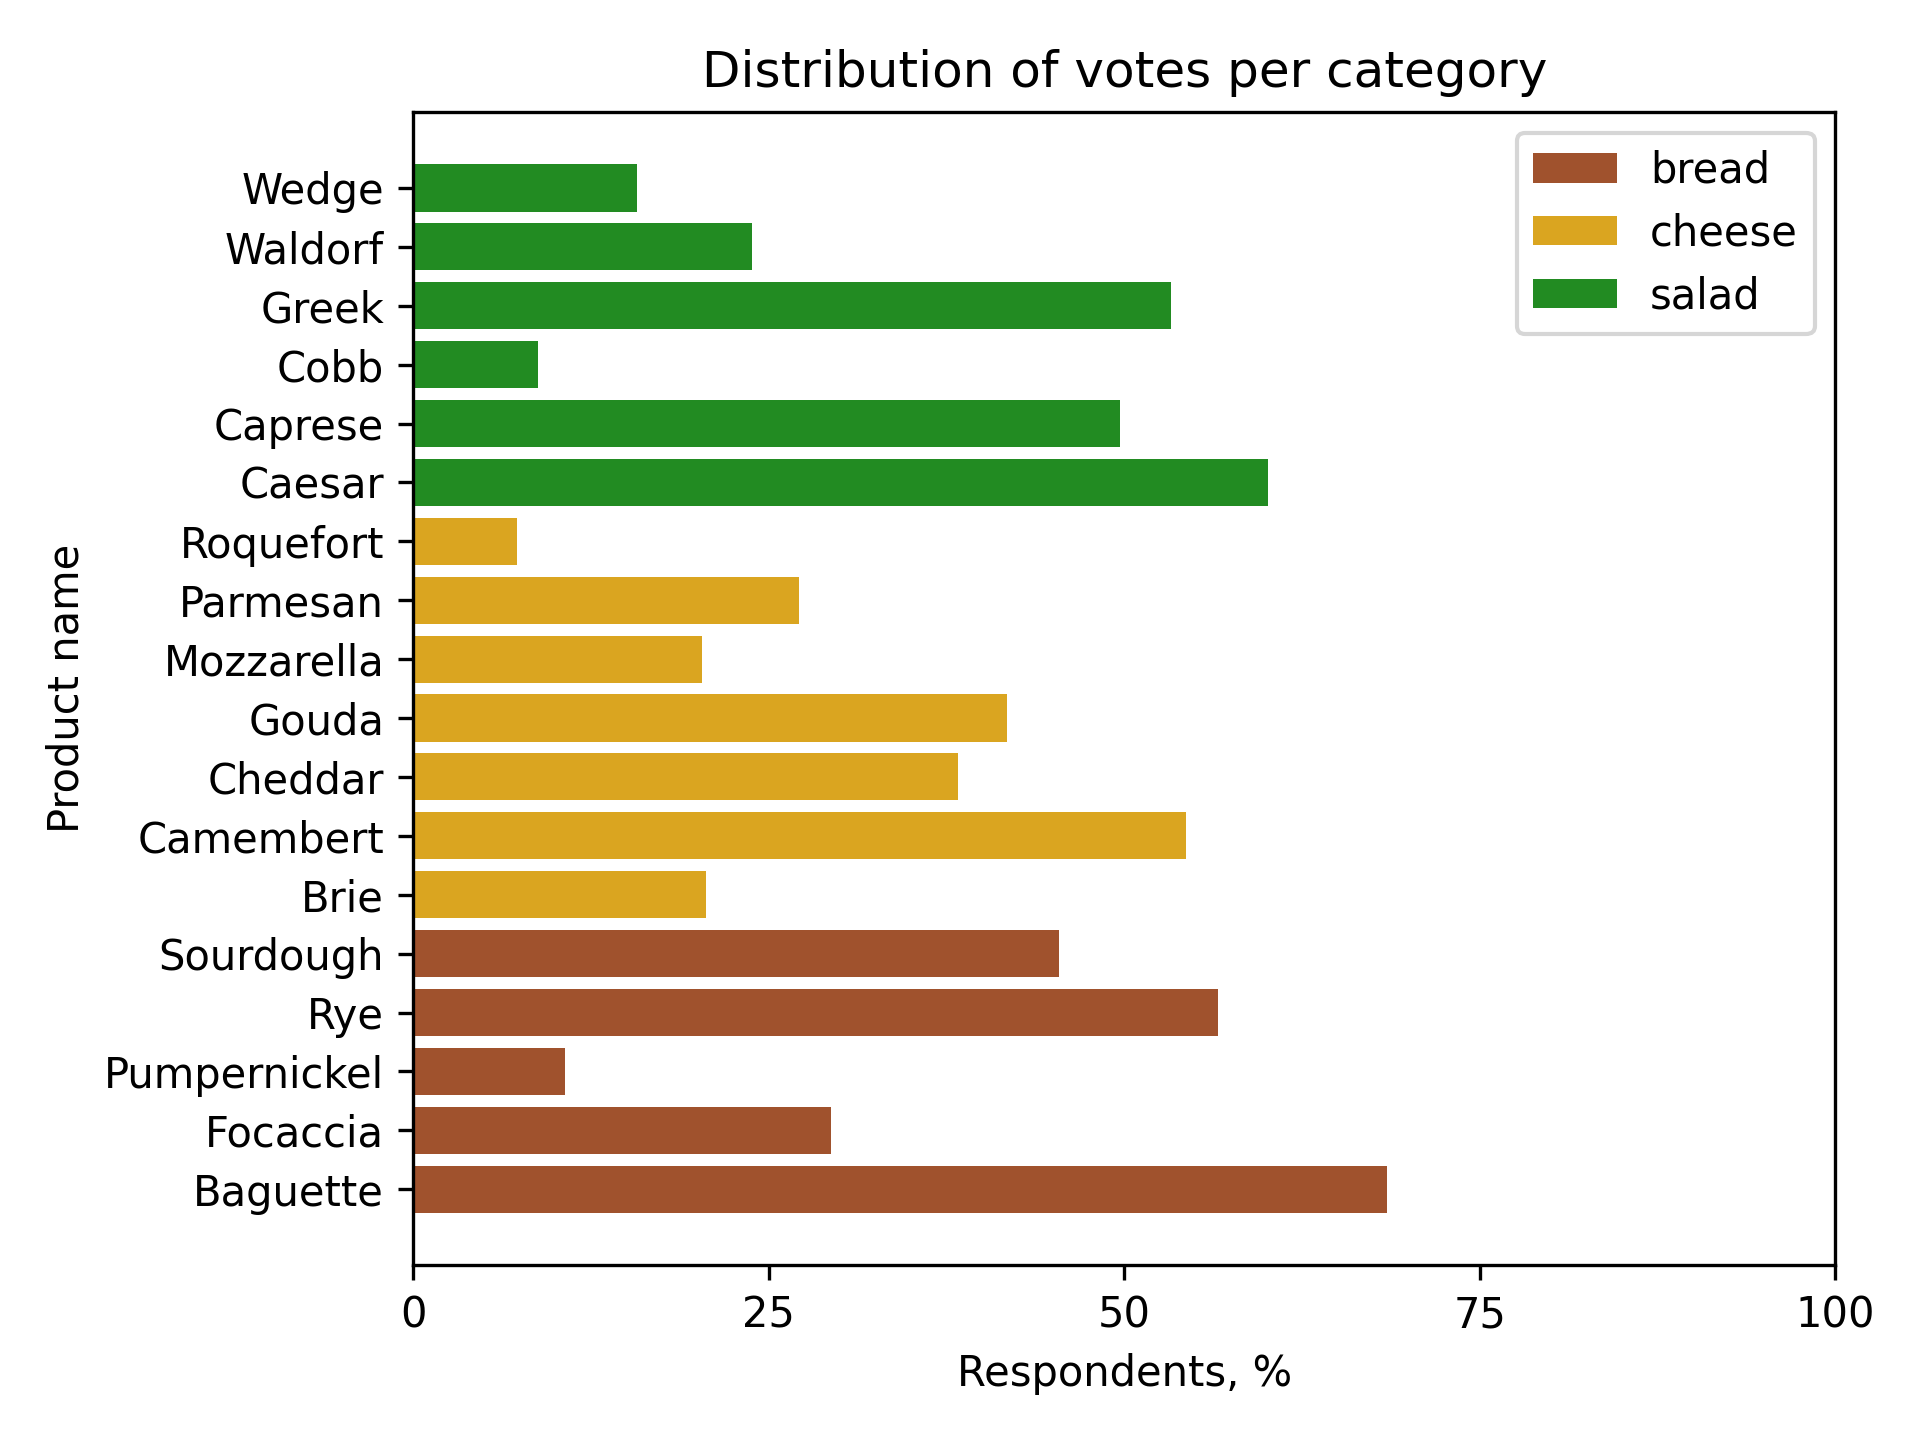
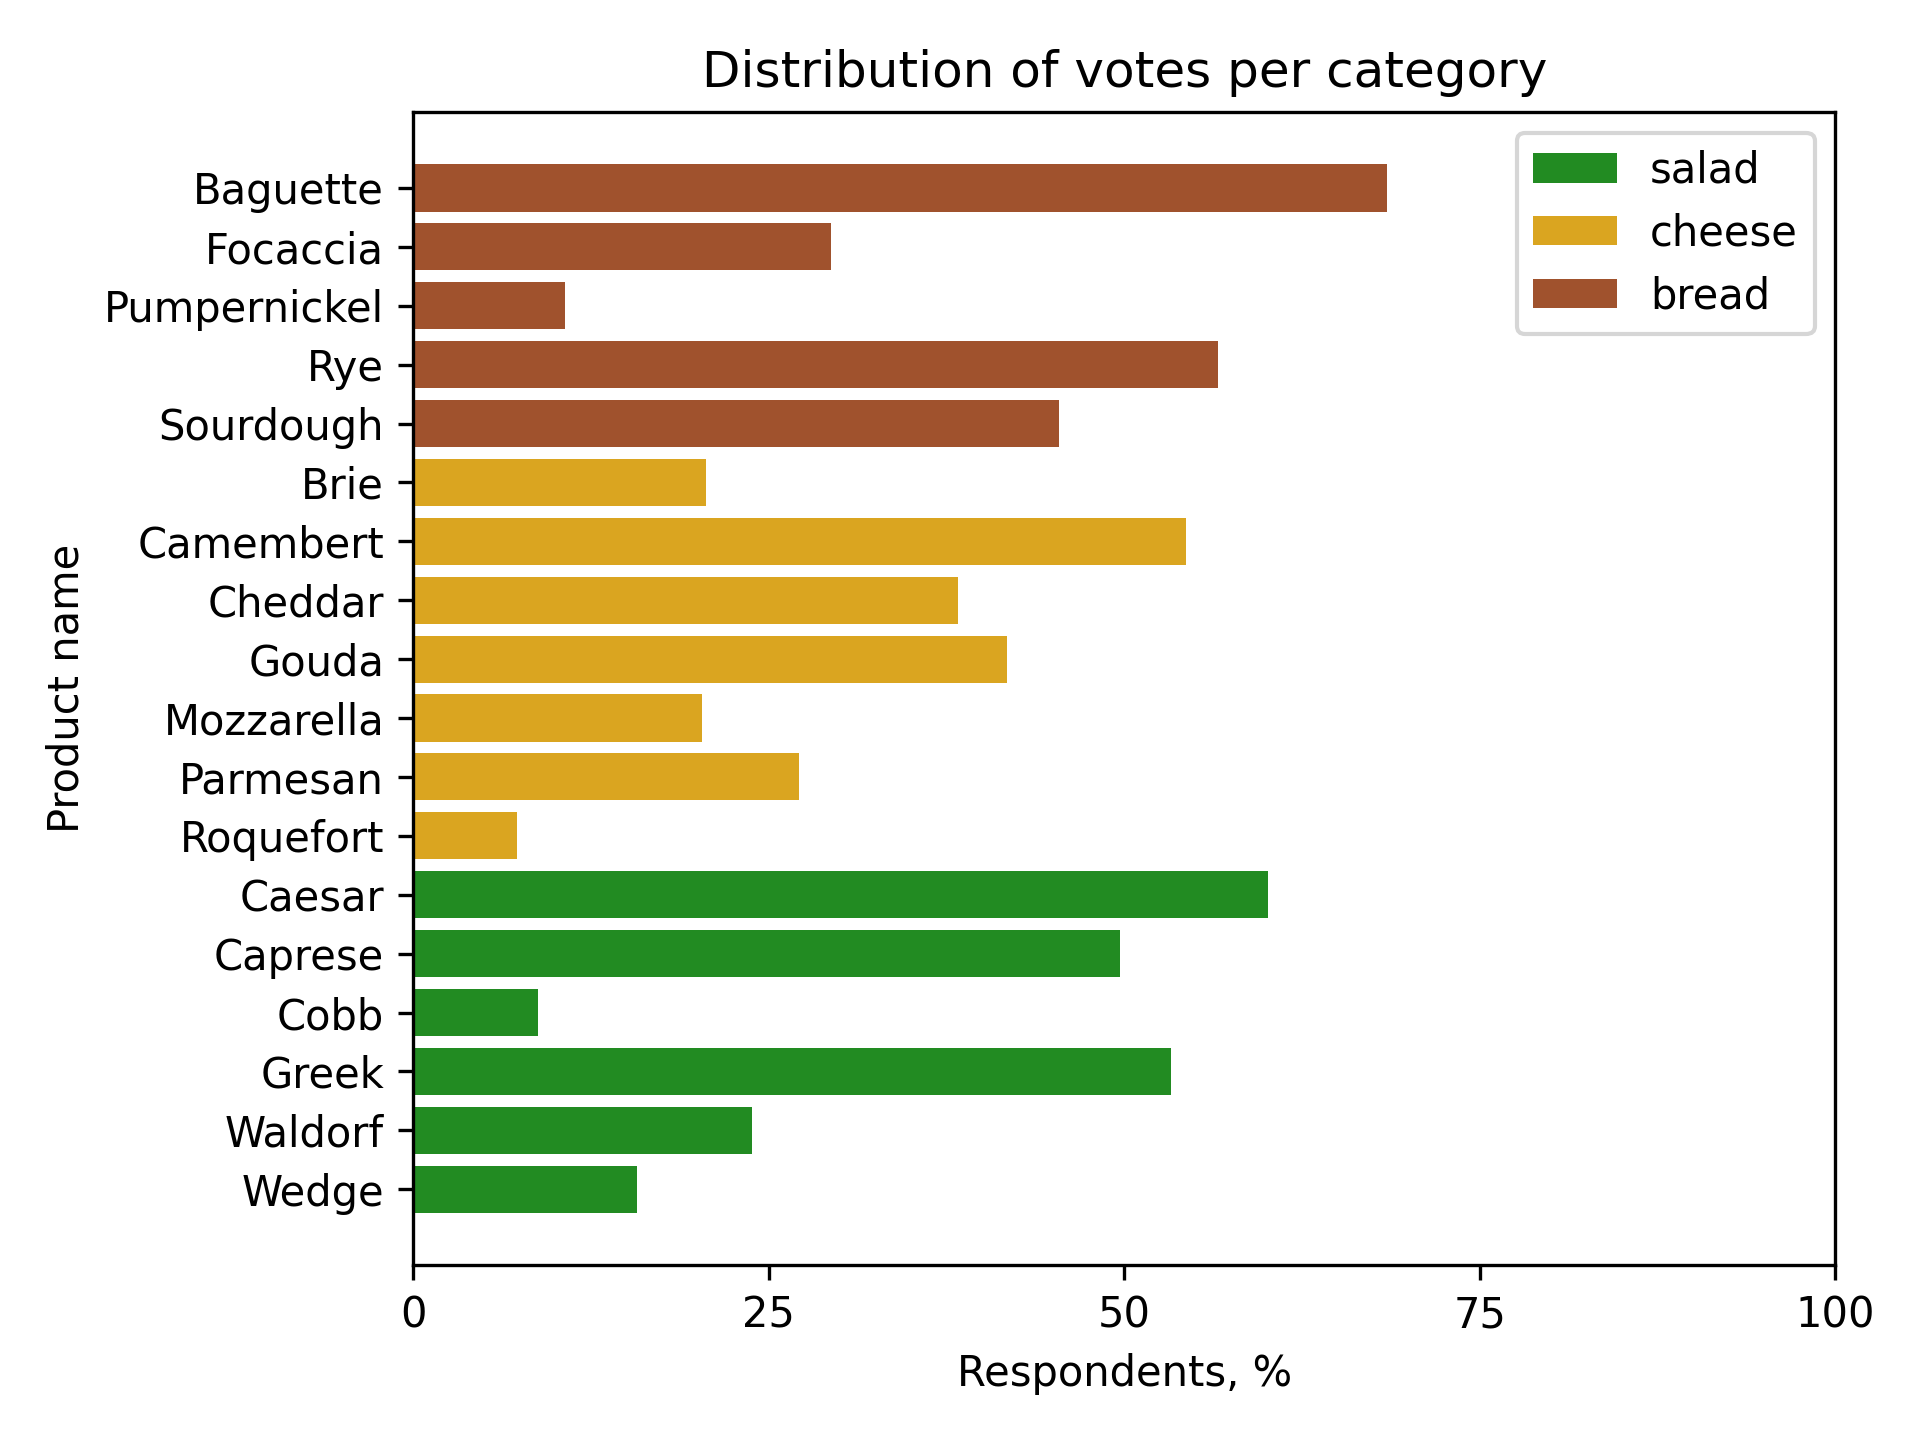
fix: fix small issues

Changed region(s): [[0.0625, 0.0938, 0.75, 0.8438], [0.7812, 0.1875, 0.9375, 0.2188], [0.7812, 0.0938, 0.9375, 0.125]]

diff --git a/2_2_bar_and_pie_charts_matplotlib/2_practice/2_advanced_barplot/tests/test_task.py b/2_2_bar_and_pie_charts_matplotlib/2_practice/2_advanced_barplot/tests/test_task.py
@@ -24,12 +24,12 @@ class TestCase(BaseTestMixin):
         cls.fig = plot(data)
         cls.data = data
 
-        cls.categories = get_categories(cls.data)
+        cls.categories = list(reversed(get_categories(cls.data)))
 
         cls.category_colors = {
-            "bread": "sienna",
-            "cheese": "goldenrod",
             "salad": "forestgreen",
+            "cheese": "goldenrod",
+            "bread": "sienna",
         }
 
     def test_1_1_return_type(self):
@@ -51,7 +51,7 @@ class TestCase(BaseTestMixin):
 
     def test_2_1_bar_values(self):
         for i, category in enumerate(self.categories):
-            expected_positions = get_category_votes(self.data, category)
+            expected_positions = list(reversed(get_category_votes(self.data, category)))
             self.checkBarValues(self.fig.axes[0], expected_positions, container_number=i)
 
     def test_2_2_bar_position(self):
@@ -77,7 +77,7 @@ class TestCase(BaseTestMixin):
         expected_labels = []
         number_of_products = 0
         for category in self.categories:
-            expected_labels.extend(get_category_product_names(self.data, category))
+            expected_labels.extend(reversed(get_category_product_names(self.data, category)))
             number_of_products += get_category_size(self.data, category)
 
         self.checkTicks(self.fig.axes[0], list(range(number_of_products)), axis="y")
@@ -108,9 +108,16 @@ class TestCase(BaseTestMixin):
         self.checkNumberOfTextObjects(self.fig.axes[0], 18)
 
     def test_6_2_text_values(self):
-        expected_x = (self.data["votes"] + 1).to_list()
+        expected_x = []
+        expected_text = []
+
+        for category in self.categories:
+            expected_votes = list(reversed(get_category_votes(self.data, category)))
+            expected_x.extend(vote + 1 for vote in expected_votes)
+            expected_text.extend(f"{round(vote, 1)}" for vote in expected_votes)
+
         expected_y = list(range(self.data["product"].nunique()))
-        expected_text = self.data["votes"].apply(lambda x: f"{round(x, 1)}").to_list()
+
         self.checkTextObjects(self.fig.axes[0], list(zip(expected_x, expected_y, expected_text)))
 
     def test_7_1_legend(self):

diff --git a/2_2_bar_and_pie_charts_matplotlib/2_practice/1_base_barplot/tests/test_task.py b/2_2_bar_and_pie_charts_matplotlib/2_practice/1_base_barplot/tests/test_task.py
@@ -24,12 +24,12 @@ class TestCase(BaseTestMixin):
         cls.fig = plot(data)
         cls.data = data
 
-        cls.categories = get_categories(cls.data)
+        cls.categories = list(reversed(get_categories(cls.data)))
 
         cls.category_colors = {
-            "bread": "sienna",
-            "cheese": "goldenrod",
             "salad": "forestgreen",
+            "cheese": "goldenrod",
+            "bread": "sienna",
         }
 
     def test_1_1_return_type(self):
@@ -51,7 +51,7 @@ class TestCase(BaseTestMixin):
 
     def test_2_1_bar_values(self):
         for i, category in enumerate(self.categories):
-            expected_positions = get_category_votes(self.data, category)
+            expected_positions = list(reversed(get_category_votes(self.data, category)))
             self.checkBarValues(self.fig.axes[0], expected_positions, container_number=i)
 
     def test_2_2_bar_position(self):
@@ -77,7 +77,7 @@ class TestCase(BaseTestMixin):
         expected_labels = []
         number_of_products = 0
         for category in self.categories:
-            expected_labels.extend(get_category_product_names(self.data, category))
+            expected_labels.extend(reversed(get_category_product_names(self.data, category)))
             number_of_products += get_category_size(self.data, category)
 
         self.checkTicks(self.fig.axes[0], list(range(number_of_products)), axis="y")

diff --git a/2_2_bar_and_pie_charts_matplotlib/2_practice/1_base_barplot/data.py b/2_2_bar_and_pie_charts_matplotlib/2_practice/1_base_barplot/data.py
@@ -10,17 +10,17 @@ def read() -> pd.DataFrame:
 
 
 def preprocess(data: pd.DataFrame) -> pd.DataFrame:
-    preprocessed_data = data.groupby(["category", "product"]).count() / data["participant"].nunique() * 100
+    preprocessed_data = data.groupby(["category", "product"], sort=False).count() / data["participant"].nunique() * 100
     preprocessed_data = preprocessed_data.rename(columns={"participant": "votes"})
     return preprocessed_data.reset_index()
 
 
-def get_category_votes(data: pd.DataFrame, category: str) -> pd.Series:
-    return data[data["category"] == category].sort_values(by="product")["votes"]
+def get_category_votes(data: pd.DataFrame, category: str) -> List:
+    return data[data["category"] == category].sort_values(by="product")["votes"].to_list()
 
 
-def get_category_product_names(data: pd.DataFrame, category: str) -> pd.DataFrame:
-    return data[data["category"] == category]["product"].sort_values(ascending=True)
+def get_category_product_names(data: pd.DataFrame, category: str) -> List:
+    return data[data["category"] == category]["product"].sort_values().to_list()
 
 
 def get_category_size(data: pd.DataFrame, category: str) -> int:

diff --git a/2_2_bar_and_pie_charts_matplotlib/2_practice/2_advanced_barplot/data.py b/2_2_bar_and_pie_charts_matplotlib/2_practice/2_advanced_barplot/data.py
@@ -10,17 +10,17 @@ def read() -> pd.DataFrame:
 
 
 def preprocess(data: pd.DataFrame) -> pd.DataFrame:
-    preprocessed_data = data.groupby(["category", "product"]).count() / data["participant"].nunique() * 100
+    preprocessed_data = data.groupby(["category", "product"], sort=False).count() / data["participant"].nunique() * 100
     preprocessed_data = preprocessed_data.rename(columns={"participant": "votes"})
     return preprocessed_data.reset_index()
 
 
-def get_category_votes(data: pd.DataFrame, category: str) -> pd.Series:
-    return data[data["category"] == category]["votes"]
+def get_category_votes(data: pd.DataFrame, category: str) -> List:
+    return data[data["category"] == category].sort_values(by="product")["votes"].to_list()
 
 
-def get_category_product_names(data: pd.DataFrame, category: str) -> pd.DataFrame:
-    return data[data["category"] == category]["product"]
+def get_category_product_names(data: pd.DataFrame, category: str) -> List:
+    return data[data["category"] == category]["product"].sort_values().to_list()
 
 
 def get_category_size(data: pd.DataFrame, category: str) -> int:

diff --git a/2_2_bar_and_pie_charts_matplotlib/2_practice/2_advanced_barplot/task.py b/2_2_bar_and_pie_charts_matplotlib/2_practice/2_advanced_barplot/task.py
@@ -5,7 +5,7 @@ from data import get_categories, get_category_product_names, get_category_size, 
 
 
 def plot_category(ax: plt.Axes, votes: pd.DataFrame, category: str, color: str, offset: int = 0):
-    category_votes = get_category_votes(votes, category)
+    category_votes = list(reversed(get_category_votes(votes, category)))
     category_size = get_category_size(votes, category)
 
     positions = [x + offset for x in range(category_size)]
@@ -34,12 +34,12 @@ def plot(votes: pd.DataFrame) -> plt.Figure:
     y_tick_labels = []
 
     offset = 0
-    for category in get_categories(votes):
+    for category in reversed(get_categories(votes)):
         category_size = get_category_size(votes, category)
 
         plot_category(ax, votes, category, colors[category], offset)
 
-        y_tick_labels.extend(get_category_product_names(votes, category))
+        y_tick_labels.extend(reversed(get_category_product_names(votes, category)))
         y_tick_coordinates.extend([x + offset for x in range(category_size)])
 
         offset += category_size

diff --git a/2_2_bar_and_pie_charts_matplotlib/2_practice/1_base_barplot/task.py b/2_2_bar_and_pie_charts_matplotlib/2_practice/1_base_barplot/task.py
@@ -5,7 +5,7 @@ from data import get_categories, get_category_product_names, get_category_size, 
 
 
 def plot_category(ax: plt.Axes, votes: pd.DataFrame, category: str, color: str, offset: int = 0):
-    category_votes = get_category_votes(votes, category)
+    category_votes = list(reversed(get_category_votes(votes, category)))
     category_size = get_category_size(votes, category)
 
     ax.barh(
@@ -29,12 +29,12 @@ def plot(votes: pd.DataFrame) -> plt.Figure:
     y_tick_labels = []
 
     offset = 0
-    for category in get_categories(votes):
+    for category in reversed(get_categories(votes)):
         category_size = get_category_size(votes, category)
 
         plot_category(ax, votes, category, colors[category], offset)
 
-        y_tick_labels.extend(get_category_product_names(votes, category))
+        y_tick_labels.extend(reversed(get_category_product_names(votes, category)))
         y_tick_coordinates.extend([x + offset for x in range(category_size)])
 
         offset += category_size

diff --git a/2_1_bar_and_pie_charts_seaborn/2_practice/1_base/data.py b/2_1_bar_and_pie_charts_seaborn/2_practice/1_base/data.py
@@ -12,9 +12,7 @@ def read() -> pd.DataFrame:
 def get_product_order(data: pd.DataFrame) -> List:
     return (
         data.drop_duplicates(subset=["category", "product"])
-        .sort_values(
-            by=["category", "product"],
-            ascending=[True, False],
-        )["product"]
+        .groupby("category", sort=False)
+        .apply(lambda group: group["product"].sort_values())
         .to_list()
     )

diff --git a/2_1_bar_and_pie_charts_seaborn/2_practice/1_base/tests/test_task.py b/2_1_bar_and_pie_charts_seaborn/2_practice/1_base/tests/test_task.py
@@ -51,7 +51,7 @@ class PlotTestCase(BaseTestMixin):
                 self.data[self.data["category"] == category]
                 .groupby("product", sort=False)
                 .size()
-                .sort_index(ascending=False)
+                .sort_index()
             )
             self.checkBarValues(self.fig.ax, expected_values.to_list(), container_number=i)
 

diff --git a/2_2_bar_and_pie_charts_matplotlib/2_practice/1_base_barplot/task.md b/2_2_bar_and_pie_charts_matplotlib/2_practice/1_base_barplot/task.md
@@ -4,22 +4,22 @@ At a recent tasting event, participants were invited to sample an assortment of 
 Everyone had the chance to vote for up to 3 products per category, sharing their favorites among the diverse offerings.
 The organizers of a tasting event received all the responses,
 calculated themselves the percentage of votes for each product in each category
-(so that they know the corresponding distribution along cheese, bread, and salad).
+(so that they know the corresponding distribution along bread, cheese, and salad).
 Now they want us to help with plotting the data.
 Let's help them!
 
 To interpret the data,
 the organizers want to see the distribution of votes (`votes`) for each category (`category`) in a single horizontal bar
 chart.
-So you should plot categories from bottom to top and color them accordingly:
+So you should plot categories from top to bottom in the same order as they appear in the data
+and color them accordingly:
 `bread` - `sienna`, `cheese` - `goldenrod`, `salad` - `forestgreen`.
 
 The requirements for the y-axis:
 
 1. Each bar should have the corresponding product name on the left side of the bar (i.e. `cheddar`).
 2. Set the y-axis label as `Product name`.
-3. Product names within each category should be sorted
-   in ascending lexicographical order (from bottom to top).
+3. Product names within each category should be sorted in alphabetical order (from top to bottom).
 
 The requirements for the x-axis:
 
@@ -36,10 +36,10 @@ Note that we preprocessed the data for you. To learn how we do it, please see th
 
 You could use the following hidden functions:
 
-1. `get_category_votes` to get all votes for the specific category in ascending lexicographical order.
-2. `get_category_product_names` to get all product names for the specific category.
+1. `get_category_product_names` to get all product names for the specific category in alphabetical order (from top to bottom).
+2. `get_category_votes` to get all votes for the specific category in the same order as the product names.
 3. `get_category_size` to get a number of products in the specific category.
-4. `get_categories` to get a list of categories.
+4. `get_categories` to get a list of categories in the order they appear in the data.
 
 If you get stuck, please feel free to use the hints below, where you can also find what the final figure should look
 like.

diff --git a/2_1_bar_and_pie_charts_seaborn/2_practice/1_base/task.md b/2_1_bar_and_pie_charts_seaborn/2_practice/1_base/task.md
@@ -9,15 +9,14 @@ Let's help them!
 To interpret the data,
 the organizers want to see the distribution of votes for each category (`category`) in a single horizontal bar
 chart.
-So you should plot categories from top to bottom as follows: `bread`, `cheese`, and `salad`.
+So you should plot categories from top to bottom in the same order as they appear in the data: `bread`, `cheese`, and `salad`.
 
 The other requirements are:
 
 1. The bar chart should be horizontal.
 2. The bars should be grouped by category.
-3. The products should be in the same order as in the data.
+3. Product names within each category should be sorted in alphabetical order (from top to bottom).
 4. The bar chart should have the legend.
-5. Product names within each category should be sorted in descending lexicographical order (from top to bottom).
 
 Note that you don't need to preprocess the data.
 

diff --git a/2_1_bar_and_pie_charts_seaborn/1_theory/4_countplot_order/task.md b/2_1_bar_and_pie_charts_seaborn/1_theory/4_countplot_order/task.md
@@ -22,7 +22,7 @@ If you prefer, you can sort the platforms yourself. Please refer to the correspo
 <div class="hint" title="How to import hidden functions?">
     To import it, you can place the cursor on the underlined hidden function name in your code, then press &shortcut:ShowIntentionActions;, and
     select <samp>Import 'function_name from data'</samp>:
-    <img src="../../../common/resources/images/common/hidden_function_import.gif" alt="What the figure should look like" style="max-height: 500px">
+    <img src="../../../common/resources/images/common/hidden_function_import.gif" alt="How to import hidden functions" style="max-height: 500px">
 </div>
 
 <div class="hint" title="How should I sort the platforms?">

diff --git a/2_2_bar_and_pie_charts_matplotlib/1_theory/3_countplot_customization/task.md b/2_2_bar_and_pie_charts_matplotlib/1_theory/3_countplot_customization/task.md
@@ -42,7 +42,7 @@ Note that your own function will not be tested.
 <div class="hint" title="How to import hidden functions?">
     To import it, you can place the cursor on the underlined hidden function name in your code, then press &shortcut:ShowIntentionActions;, and
     select <samp>Import 'function_name from data'</samp>:
-   <img src="../../../common/resources/images/common/hidden_function_import.gif" alt="What the figure should look like" style="max-height: 500px">
+   <img src="../../../common/resources/images/common/hidden_function_import.gif" alt="How to import hidden functions" style="max-height: 500px">
 </div>
 
 <div class="hint" title="How to set a label for an axis?">
